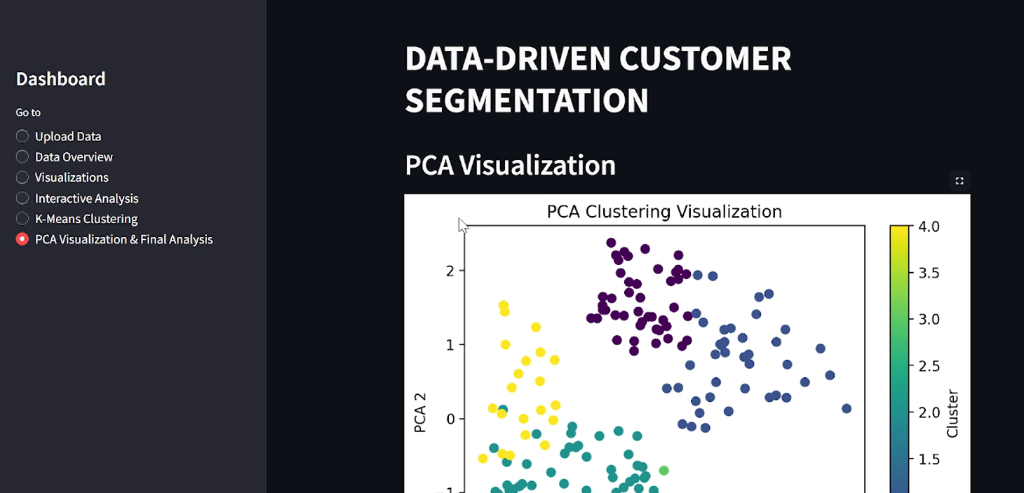
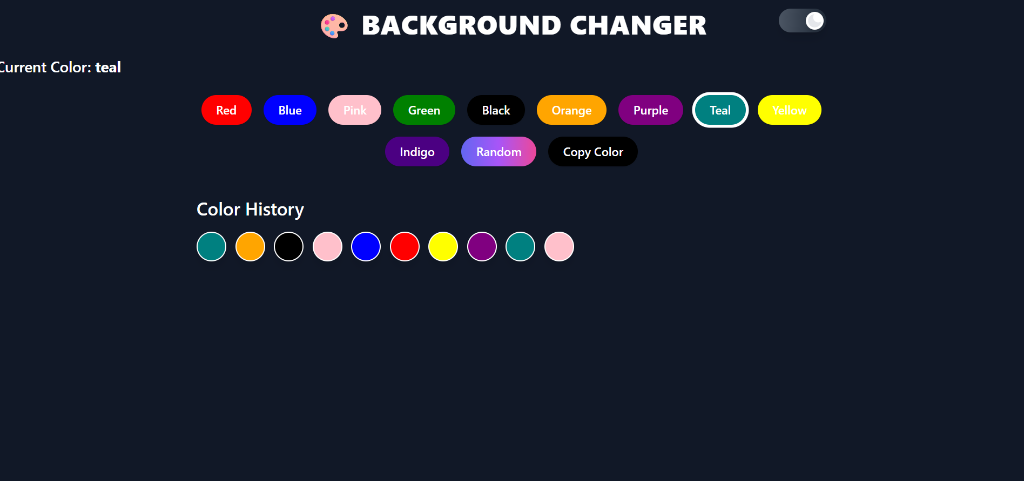
delpoyment link addditon

diff --git a/src/components/Projects.jsx b/src/components/Projects.jsx
@@ -1,12 +1,39 @@
 import React, { useState, useRef } from 'react';
-import { Github, ChevronDown, Brain, Laptop, Server, Coins, Palette, CheckSquare, PieChart, Briefcase } from 'lucide-react';
+import { Github, ChevronDown, Brain, Laptop, Server, Coins, Palette, CheckSquare, PieChart, Briefcase, ExternalLink } from 'lucide-react';
 import { motion } from 'framer-motion';
 import Tilt from 'react-parallax-tilt';
 import { useTheme } from './ThemeContext';
 
 const PrimaryProjects = [
+
+    {
+        title: 'Apollo — AI Coding Coach & Workspace',
+        thumbnail: '/thumb_apollo.png',
+        icon: Laptop,
+        tagline: 'An AI-powered coding workspace and interview simulator.',
+        features: [
+            { title: 'Intelligent Coding Assistance', desc: 'Provides real-time code explanation, debugging, and review through 20+ specialized AI personas, enhancing learning and productivity.' },
+            { title: 'Interactive Development Environment', desc: 'Integrates Monaco Editor and Judge0 for secure multi-language execution with instant feedback and collaborative live sessions.' },
+            { title: 'Interview Simulator', desc: 'Features dynamic problem generation, adaptive difficulty scaling, timed assessments, and AI evaluations that mirror real interview experiences.' },
+            { title: 'Secure & Personalized Experience', desc: 'Implements JWT authentication, bcrypt hashing, and MongoDB-backed session management to maintain secure user accounts and coding history.' }
+        ],
+        whyUnique: 'Combines an AI mentor, coding workspace, and interview coach into a single environment that explains code, reviews solutions, simulates interviews, and provides personalized feedback.',
+        tags: [
+            { name: 'React', type: 'frontend' },
+            { name: 'Node.js', type: 'backend' },
+            { name: 'Express.js', type: 'backend' },
+            { name: 'Monaco', type: 'frontend' },
+            { name: 'Gemini API', type: 'backend' },
+            { name: 'WebRTC', type: 'backend' },
+            { name: 'Socket.io', type: 'backend' },
+            { name: 'Judge0', type: 'backend' }
+        ],
+        link: 'https://github.com/Arshiya2801/Apollo',
+        deploymentLink: 'https://mind-clash-nine.vercel.app'
+    },
     {
         title: 'MindClash',
+        thumbnail: '/thumb-mind.png',
         icon: Brain,
         tagline: 'A gamified, real-time debate arena with AI-driven moderation.',
         features: [
@@ -26,31 +53,11 @@ const PrimaryProjects = [
             { name: 'Gemini API', type: 'backend' },
             { name: 'Tailwind CSS', type: 'frontend' }
         ],
-        link: 'https://github.com/Arshiya2801/MindClash'
+        link: 'https://github.com/Arshiya2801/MindClash',
+        deploymentLink: 'https://mindclash-live.vercel.app',
+
     },
-    {
-        title: 'Apollo — AI Coding Coach & Workspace',
-        icon: Laptop,
-        tagline: 'An AI-powered coding workspace and interview simulator.',
-        features: [
-              { title: 'Intelligent Coding Assistance', desc: 'Provides real-time code explanation, debugging, and review through 20+ specialized AI personas, enhancing learning and productivity.' },
-              { title: 'Interactive Development Environment', desc: 'Integrates Monaco Editor and Judge0 for secure multi-language execution with instant feedback and collaborative live sessions.' },
-              { title: 'Interview Simulator', desc: 'Features dynamic problem generation, adaptive difficulty scaling, timed assessments, and AI evaluations that mirror real interview experiences.' },
-              { title: 'Secure & Personalized Experience', desc: 'Implements JWT authentication, bcrypt hashing, and MongoDB-backed session management to maintain secure user accounts and coding history.' }
-        ],
-           whyUnique: 'Combines an AI mentor, coding workspace, and interview coach into a single environment that explains code, reviews solutions, simulates interviews, and provides personalized feedback.',
-        tags: [
-            { name: 'React', type: 'frontend' },
-            { name: 'Node.js', type: 'backend' },
-            { name: 'Express.js', type: 'backend' },
-            { name: 'Monaco', type: 'frontend' },
-            { name: 'Gemini API', type: 'backend' },
-            { name: 'WebRTC', type: 'backend' },
-            { name: 'Socket.io', type: 'backend' },
-            { name: 'Judge0', type: 'backend' }
-        ],
-        link: 'https://github.com/Arshiya2801/Apollo'
-    },
+
     {
         title: 'TalentIQ',
         icon: Laptop,
@@ -93,12 +100,13 @@ const PrimaryProjects = [
         ],
         link: 'https://github.com/Arshiya2801/Streamly'
     },
-    
+
 ];
 
 const SecondaryProjects = [
     {
         title: 'Currency Converter',
+        thumbnail: '/thumb-currency.png',
         icon: Coins,
         tagline: 'Sleek React app, API-based real-time conversion, Tailwind CSS.',
         description: 'A responsive currency converter leveraging real-time exchange rates, built with React and styled elegantly using Tailwind CSS for a modern user experience.',
@@ -112,6 +120,7 @@ const SecondaryProjects = [
     },
     {
         title: 'Background Changer',
+        thumbnail: '/thumb-bg.png',
         icon: Palette,
         tagline: 'React app, color palette history, dark/light mode toggle.',
         description: 'An interactive utility that allows users to instantly change the background color of the application, keeping a history of selected palettes and supporting dark/light UI modes.',
@@ -125,6 +134,7 @@ const SecondaryProjects = [
     },
     {
         title: 'To-Do List',
+        thumbnail: '/thumb-todo.png',
         icon: CheckSquare,
         tagline: 'Responsive app, local storage persistence, filterable tags, Vite/React.',
         description: 'A high-performance task management application featuring persistent local storage, dynamic tag filtering, and a lightning-fast Vite-based React setup.',
@@ -138,6 +148,7 @@ const SecondaryProjects = [
     },
     {
         title: 'Customer Segmentation',
+        thumbnail: '/thumb-customer.png',
         icon: PieChart,
         tagline: 'Streamlit ML dashboard, K-Means clustering, PCA visualization.',
         description: 'A comprehensive machine learning dashboard built in Streamlit. It applies K-Means clustering on customer data and visualizes the results intuitively using PCA along with detailed data charts.',
@@ -180,7 +191,7 @@ const ProjectRow = ({ project }) => {
                                 <span className="text-[#4D4D4D] text-xs font-semibold">80x80</span>
                             )}
                         </div>
-                        
+
 
                         {/* Middle Content */}
                         <div className="flex flex-col flex-1">
@@ -195,16 +206,34 @@ const ProjectRow = ({ project }) => {
 
                     {/* Right Side Icons */}
                     <div className="flex flex-col items-end justify-between self-stretch">
-                        {/* GitHub Link - Stop propagation so clicking the link doesn't toggle the accordion */}
-                        <a
-                            href={project.link}
-                            target="_blank"
-                            rel="noopener noreferrer"
-                            className="p-2 hover:bg-[#1f1f1f] rounded-lg transition-colors"
-                            onClick={(e) => e.stopPropagation()}
-                        >
-                            <Github size={24} className="text-[#f97316] hover:text-[#ff8f3d] transition-colors" />
-                        </a>
+                        <div className="flex items-center">
+                            {/* Deployment Link */}
+                            {project.deploymentLink && (
+                                <a
+                                    href={project.deploymentLink}
+                                    target="_blank"
+                                    rel="noopener noreferrer"
+                                    className="p-2 hover:bg-[#1f1f1f] rounded-lg transition-colors"
+                                    onClick={(e) => e.stopPropagation()}
+                                    title="View Live Site"
+                                >
+                                    <ExternalLink size={24} className="text-[#f97316] hover:text-[#ff8f3d] transition-colors" />
+                                </a>
+                            )}
+                            {/* GitHub Link - Stop propagation so clicking the link doesn't toggle the accordion */}
+                            {project.link && (
+                                <a
+                                    href={project.link}
+                                    target="_blank"
+                                    rel="noopener noreferrer"
+                                    className="p-2 hover:bg-[#1f1f1f] rounded-lg transition-colors"
+                                    onClick={(e) => e.stopPropagation()}
+                                    title="View Source Code"
+                                >
+                                    <Github size={24} className="text-[#f97316] hover:text-[#ff8f3d] transition-colors" />
+                                </a>
+                            )}
+                        </div>
 
                         {/* Expand Chevron */}
                         <div className={`p-2 rounded-full transition-transform duration-300 ${isExpanded ? 'rotate-180 text-[var(--color-text-primary)]' : 'rotate-0 text-[var(--color-text-secondary)] group-hover:text-[var(--color-text-primary)]'}`}>
@@ -248,7 +277,7 @@ const ProjectRow = ({ project }) => {
                                     </p>
                                 </div>
                             )}
-                        
+
                             {/* Tech Stack Pills (hidden until expanded) */}
                             <div className="flex flex-wrap gap-2 pb-2 mt-4">
                                 {project.tags.map((tag, index) => (
@@ -265,7 +294,7 @@ const ProjectRow = ({ project }) => {
                             </div>
                         </div>
 
-                        
+
                     </div>
                 </div>
             </motion.div>